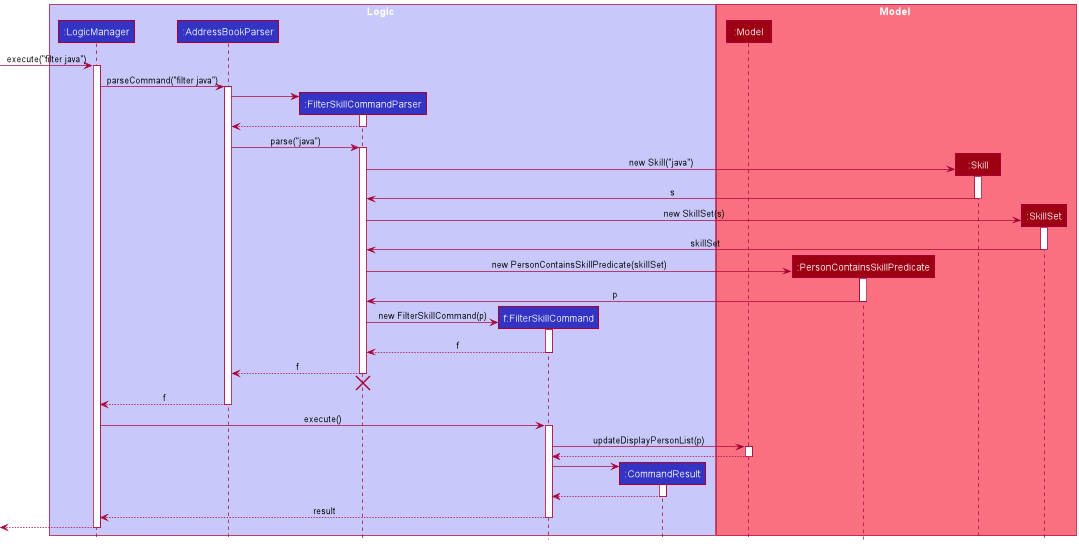
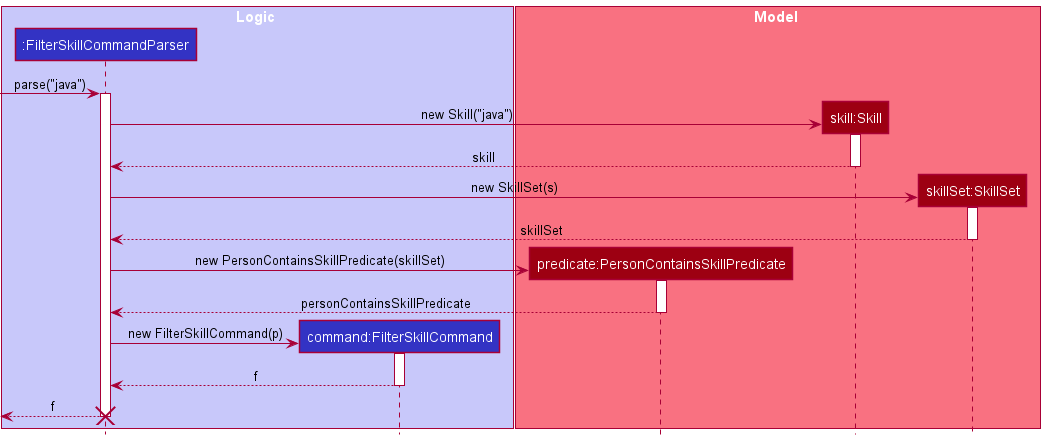
Update DG and UML diagrams

diff --git a/docs/DeveloperGuide.md b/docs/DeveloperGuide.md
@@ -217,6 +217,9 @@ This command is used to display a list of people who has the skill specified in 
 #### Execution
 
 Below is a sequence diagram showing the execution path when this command is entered.
+The execution path for this diagram only shows the creation of the `FilterSkillCommand`.
+The execution of the command is the same as all other commands (e.g. `Delete` and `Add`).
+You may refer to them if you require so.
 
 ![FilterSkillCommand](images/FilterSkillSequenceDiagram.png)
 
